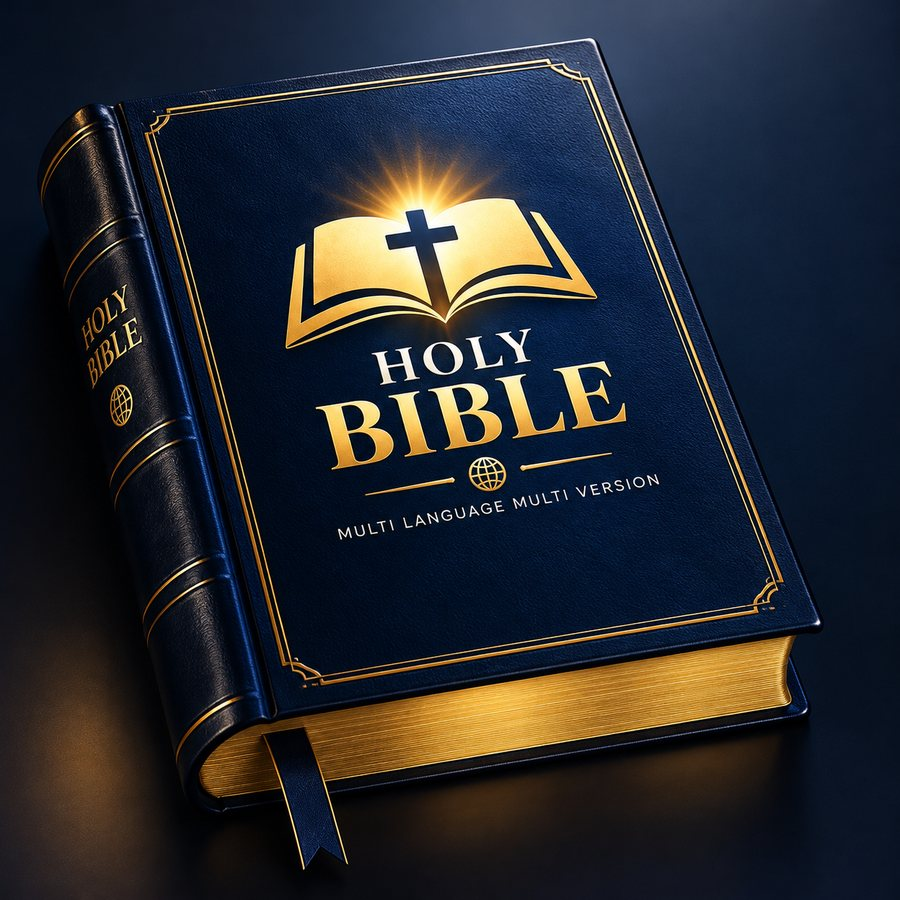
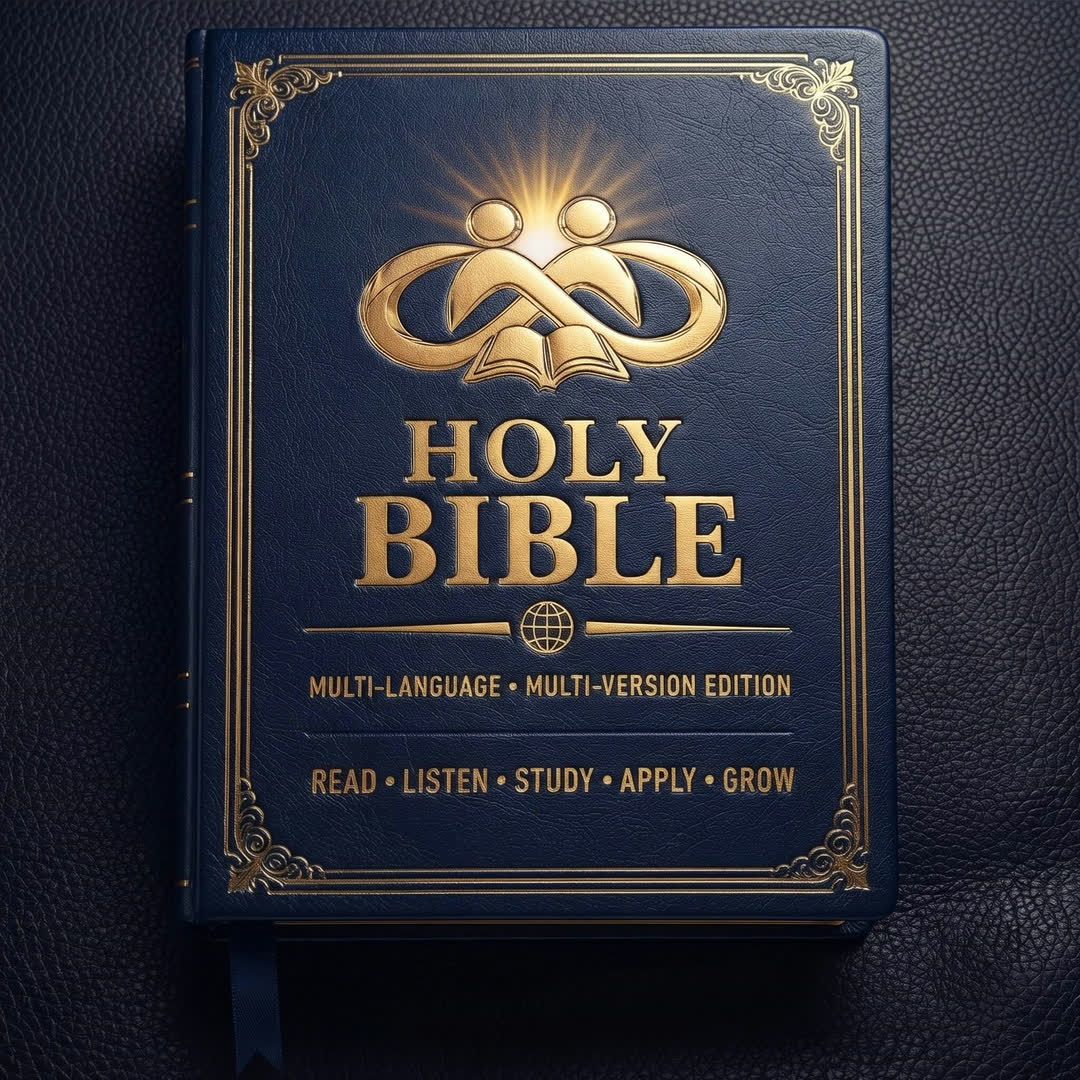
New Bible cover: Holy Bible, multi-language multi-version edition (Read · Listen · Study · Apply · Grow)
Owner's new artwork, square 1080 px JPEG (218 KB). Shown on the Bible tab,
Learning, the chapter picker and the lock screen while listening. Background
colour and screen-reader label updated to match.

diff --git a/artifacts/mobile/constants/artwork.ts b/artifacts/mobile/constants/artwork.ts
@@ -3,8 +3,8 @@
 /** Bible Study and the Bible reader ("Holy Bible — multi language, multi version"). */
 export const BIBLE_COVER = require("@/assets/images/bible-cover.jpg");
 /** The cover's own navy, behind it so any spare space blends in. */
-export const BIBLE_COVER_BG = "#0A1324";
-export const BIBLE_COVER_LABEL = "Holy Bible — multi language, multi version";
+export const BIBLE_COVER_BG = "#111522";   // the cover's own dark leather (cover replaced 2026-11-28)
+export const BIBLE_COVER_LABEL = "Holy Bible — multi-language, multi-version edition: read, listen, study, apply, grow";
 
 /**
  * Makes a bundled image fill its frame exactly. On web an image bundled with the
